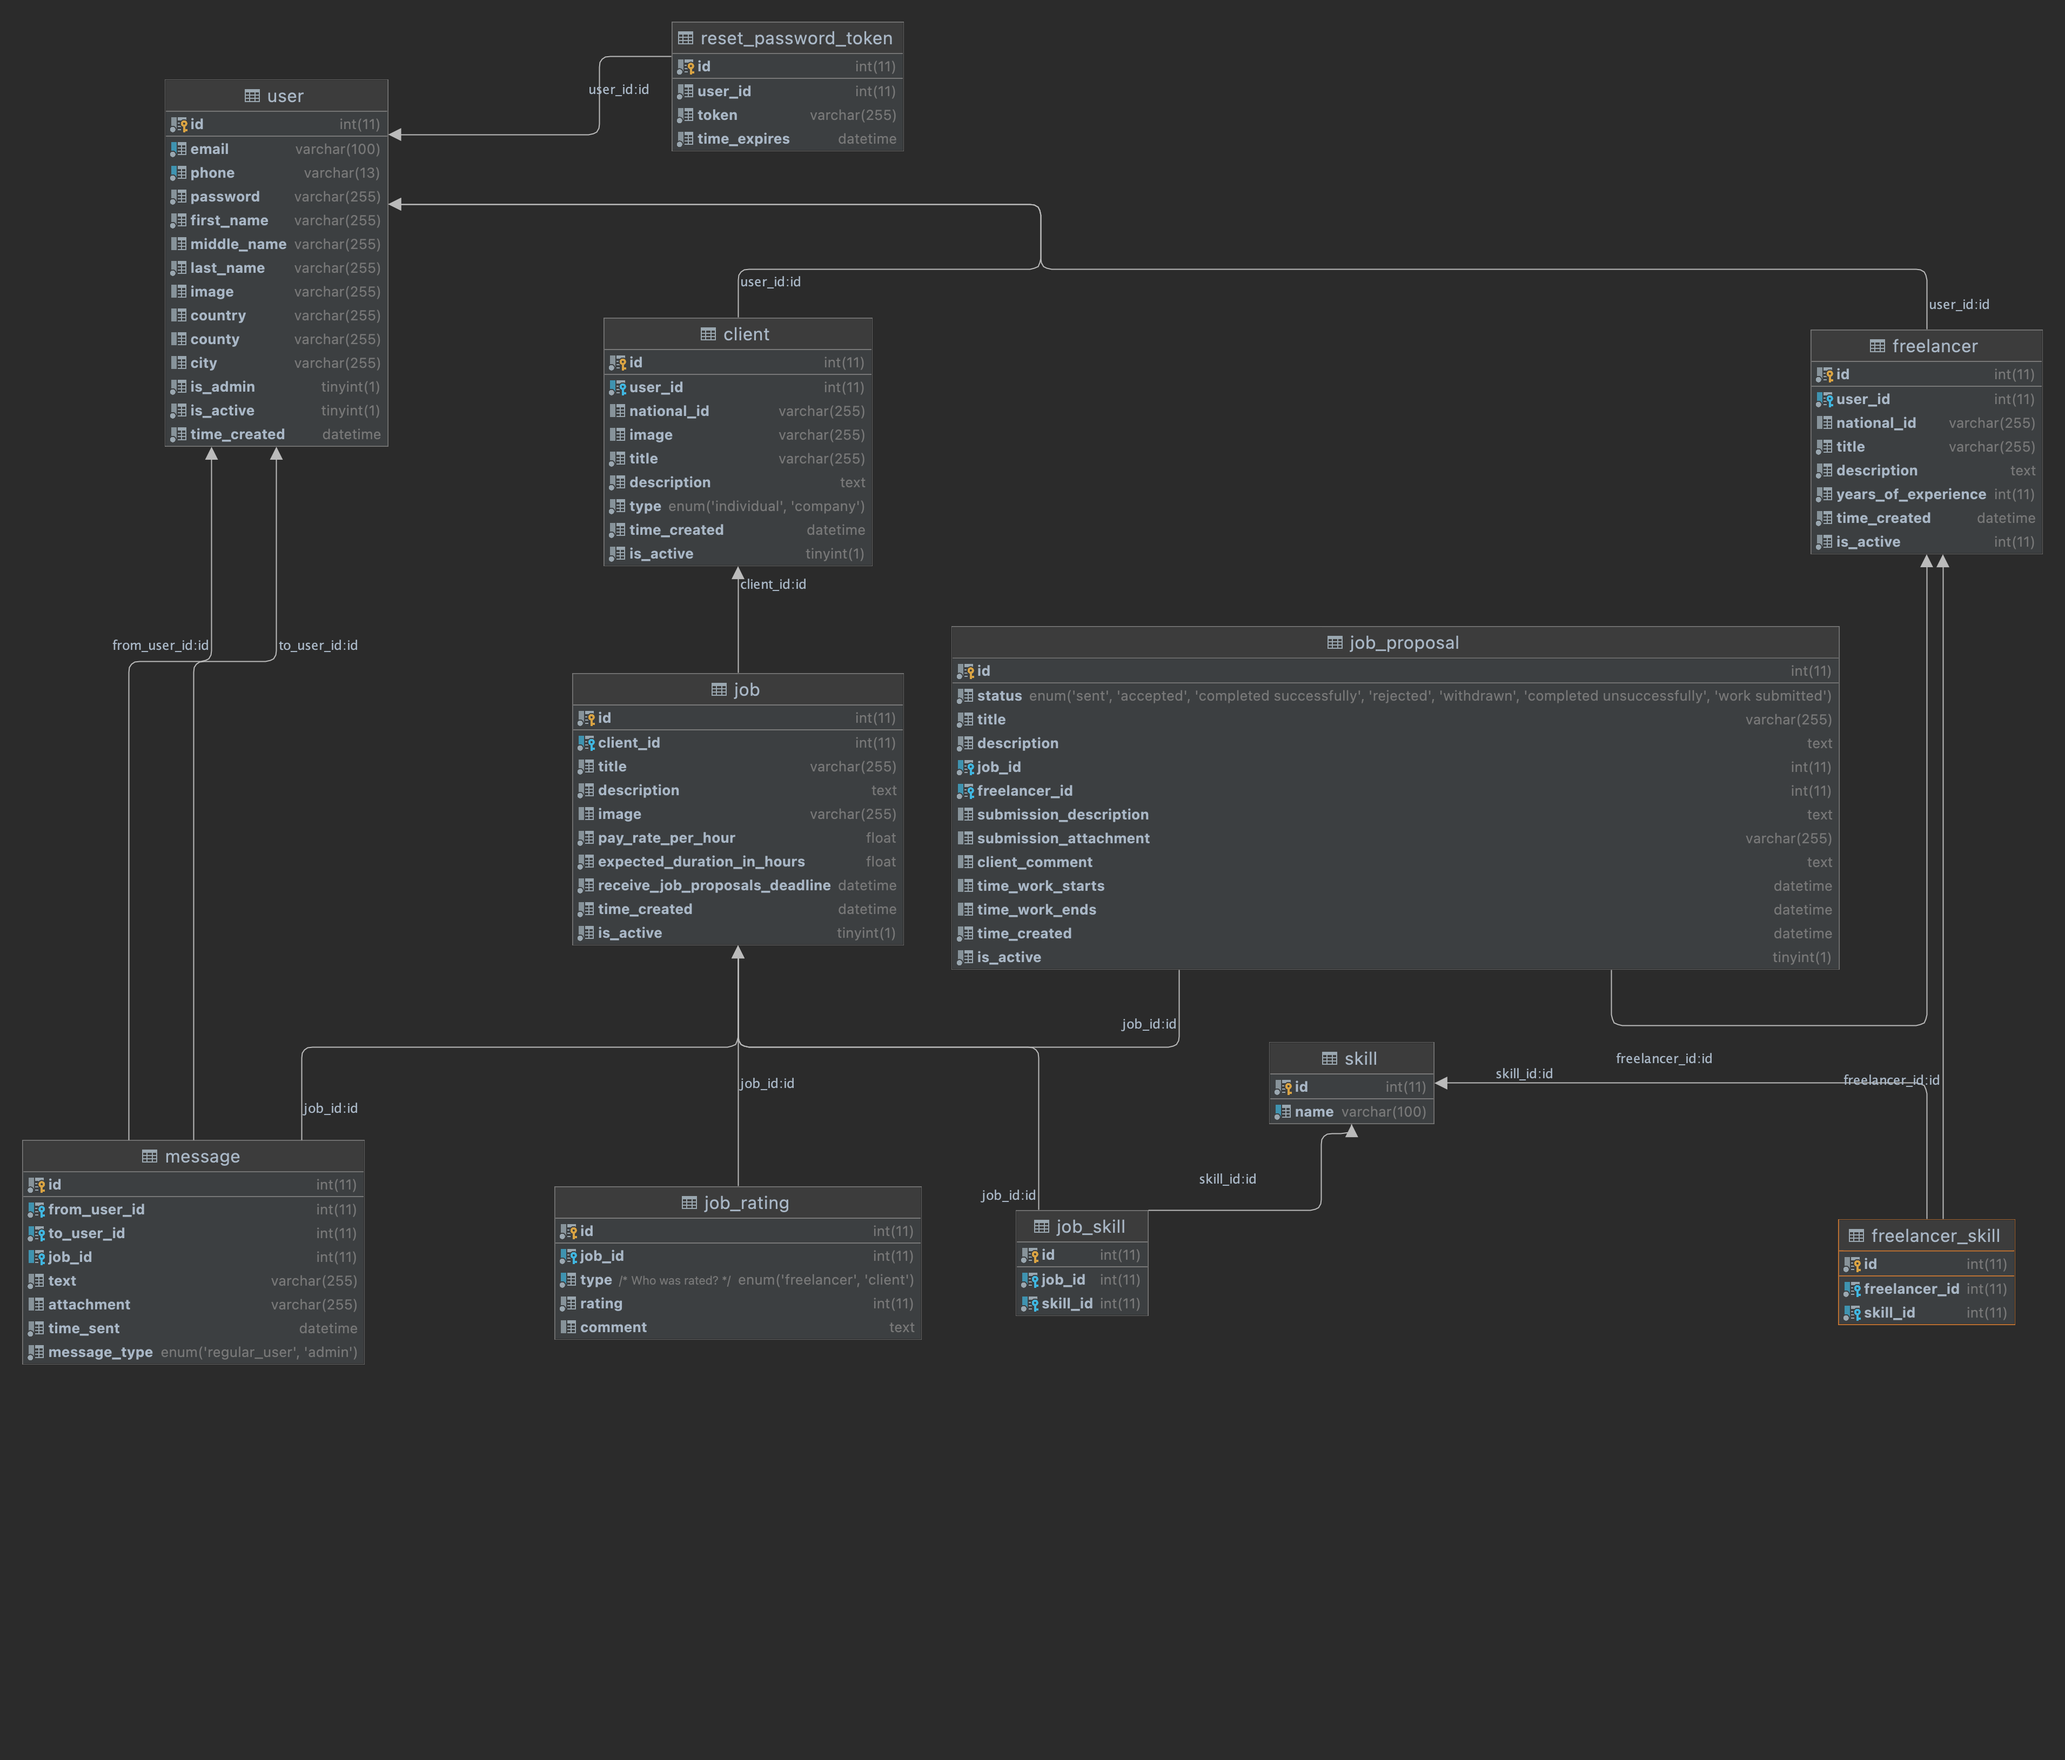
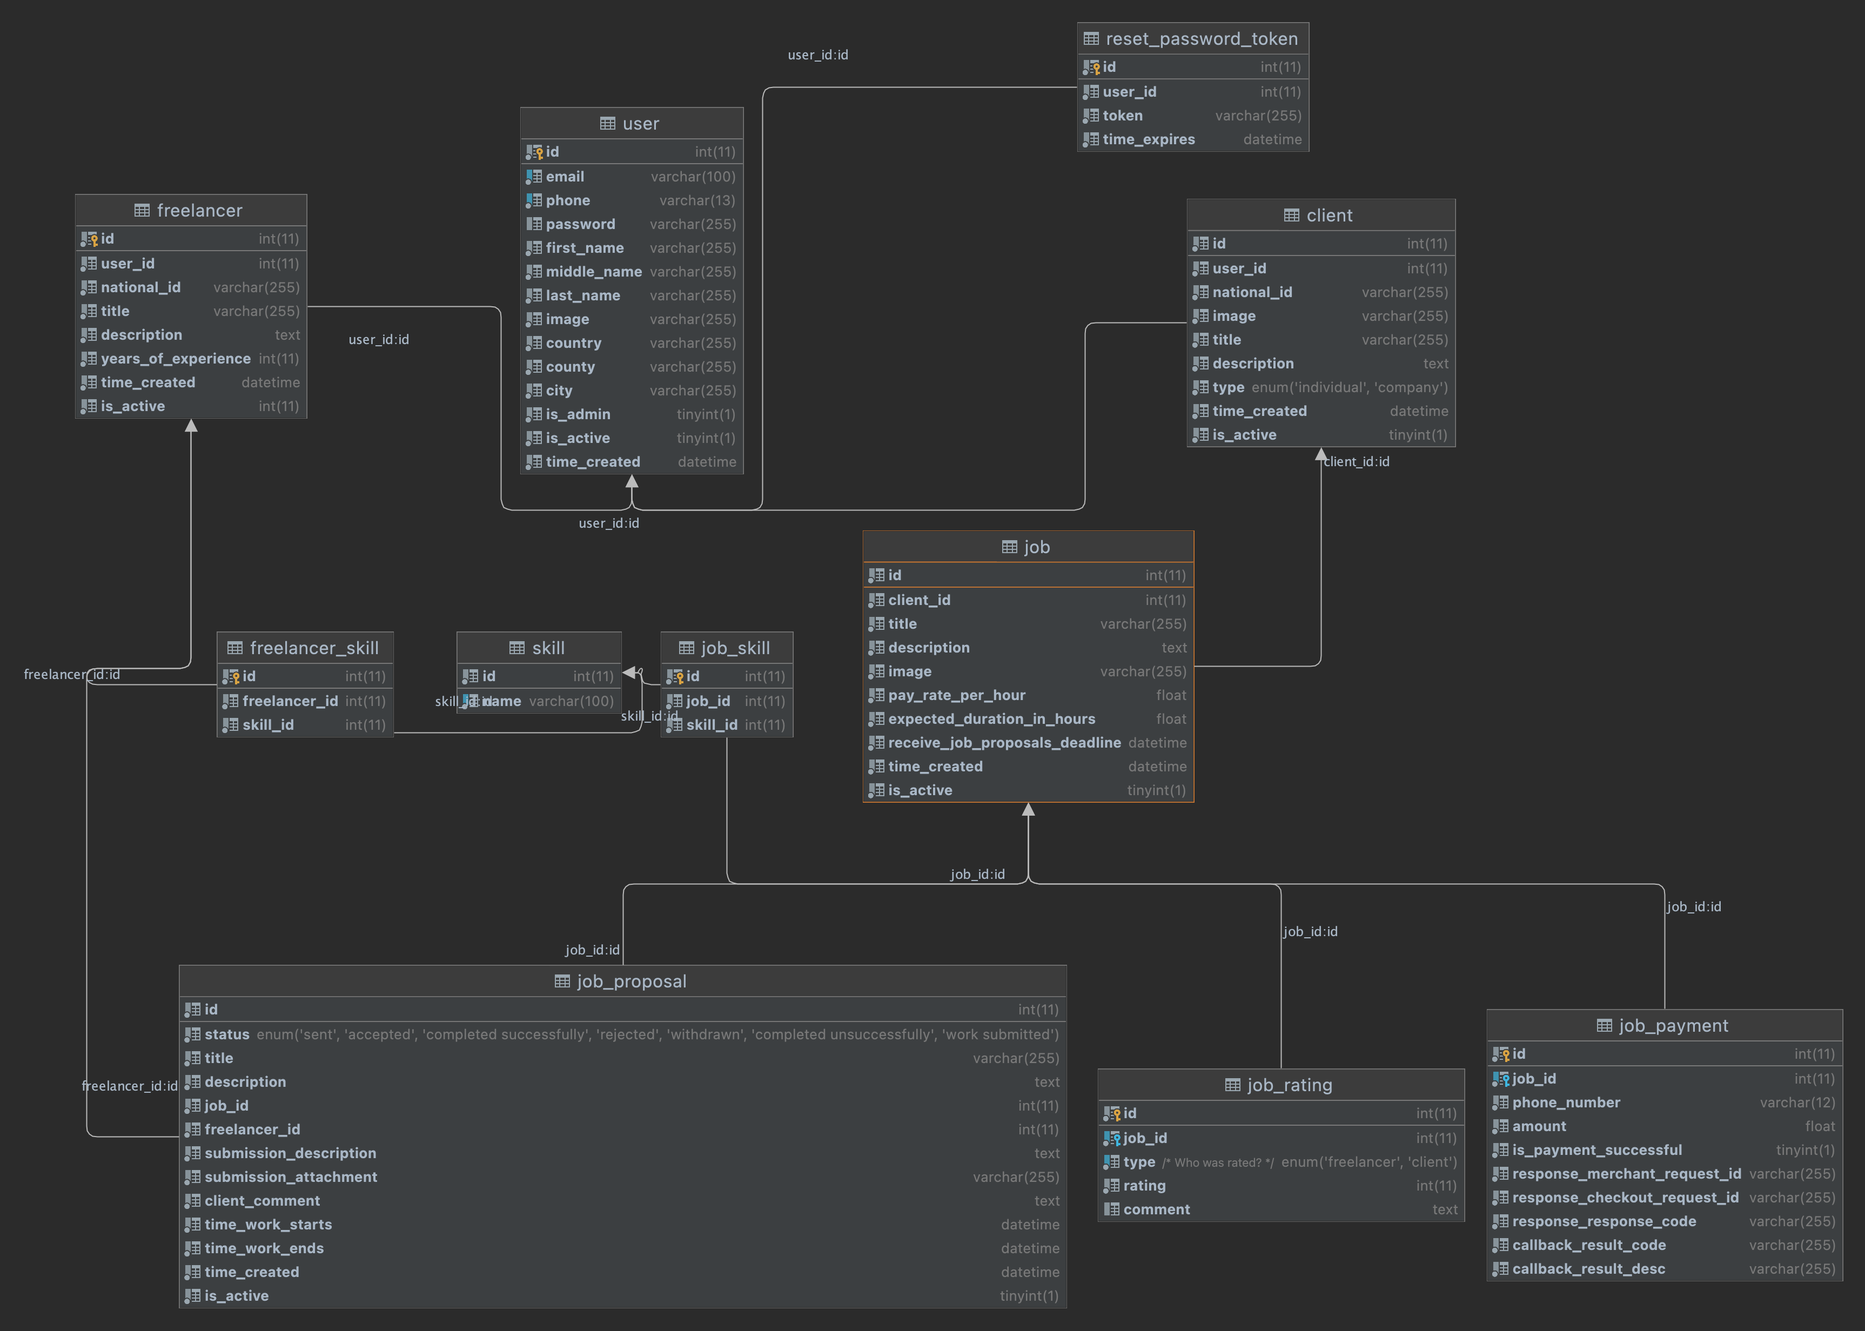
add job_payment model

diff --git a/freelance/models/JobPaymentModel.php b/freelance/models/JobPaymentModel.php
@@ -1,0 +1,105 @@
+<?php
+
+namespace app\models;
+
+use app\Database;
+
+
+class JobPaymentModel extends _BaseModel
+{
+    private $db;
+
+    private int $id;
+    private int $job_id;
+    private string $phone_number;
+    private float $amount;
+    private bool $is_payment_successful;
+    private string $response_merchant_request_id;
+    private string $response_checkout_request_id;
+    private int $response_response_code;
+    private ?int $callback_result_code;
+    private ?string $callback_result_desc;
+
+
+    public function __construct(int $id)
+    {
+        $this->db = $this->connectToDb();
+
+        $sql = 'SELECT * FROM skill WHERE id = :id';
+        $statement = $this->db->prepare($sql);
+        $statement->bindParam(':id', $id);
+        $statement->execute();
+        $skill = $statement->fetch();
+
+        $this->id = $id;
+        $this->name = $skill['name'];
+    }
+
+    public static function create(
+        string $name,
+    ): JobPaymentModel {
+        $db = (new Database)->connectToDb();
+
+        $sql = 'INSERT INTO skill (name) VALUES (:name)';
+        $statement = $db->prepare($sql);
+        $statement->bindParam(':name', $name);
+        $statement->execute();
+
+        return new JobPaymentModel($db->lastInsertId());
+    }
+
+    public function getId(): int
+    {
+        return $this->id;
+    }
+
+    public function getJobId(): int
+    {
+        return $this->job_id;
+    }
+
+    public function getJob(): ?JobModel
+    {
+        return JobModel::tryGetById($this->job_id);
+    }
+
+    public function getPhoneNumber(): string
+    {
+        return $this->phone_number;
+    }
+
+    public function getAmount(): float
+    {
+        return $this->amount;
+    }
+
+    public function getIsPaymentSuccessful(): bool
+    {
+        return $this->is_payment_successful;
+    }
+
+    public function getResponseMerchantRequestId(): string
+    {
+        return $this->response_merchant_request_id;
+    }
+
+    public function getResponseCheckoutRequestId(): string
+    {
+        return $this->response_checkout_request_id;
+    }
+
+    public function getResponseResponseCode(): int
+    {
+        return $this->response_response_code;
+    }
+
+    public function getCallbackResultCode(): int
+    {
+        return $this->callback_result_code;
+    }
+
+    public function getCallbackResultDesc(): string
+    {
+        return $this->callback_result_desc;
+    }
+}
